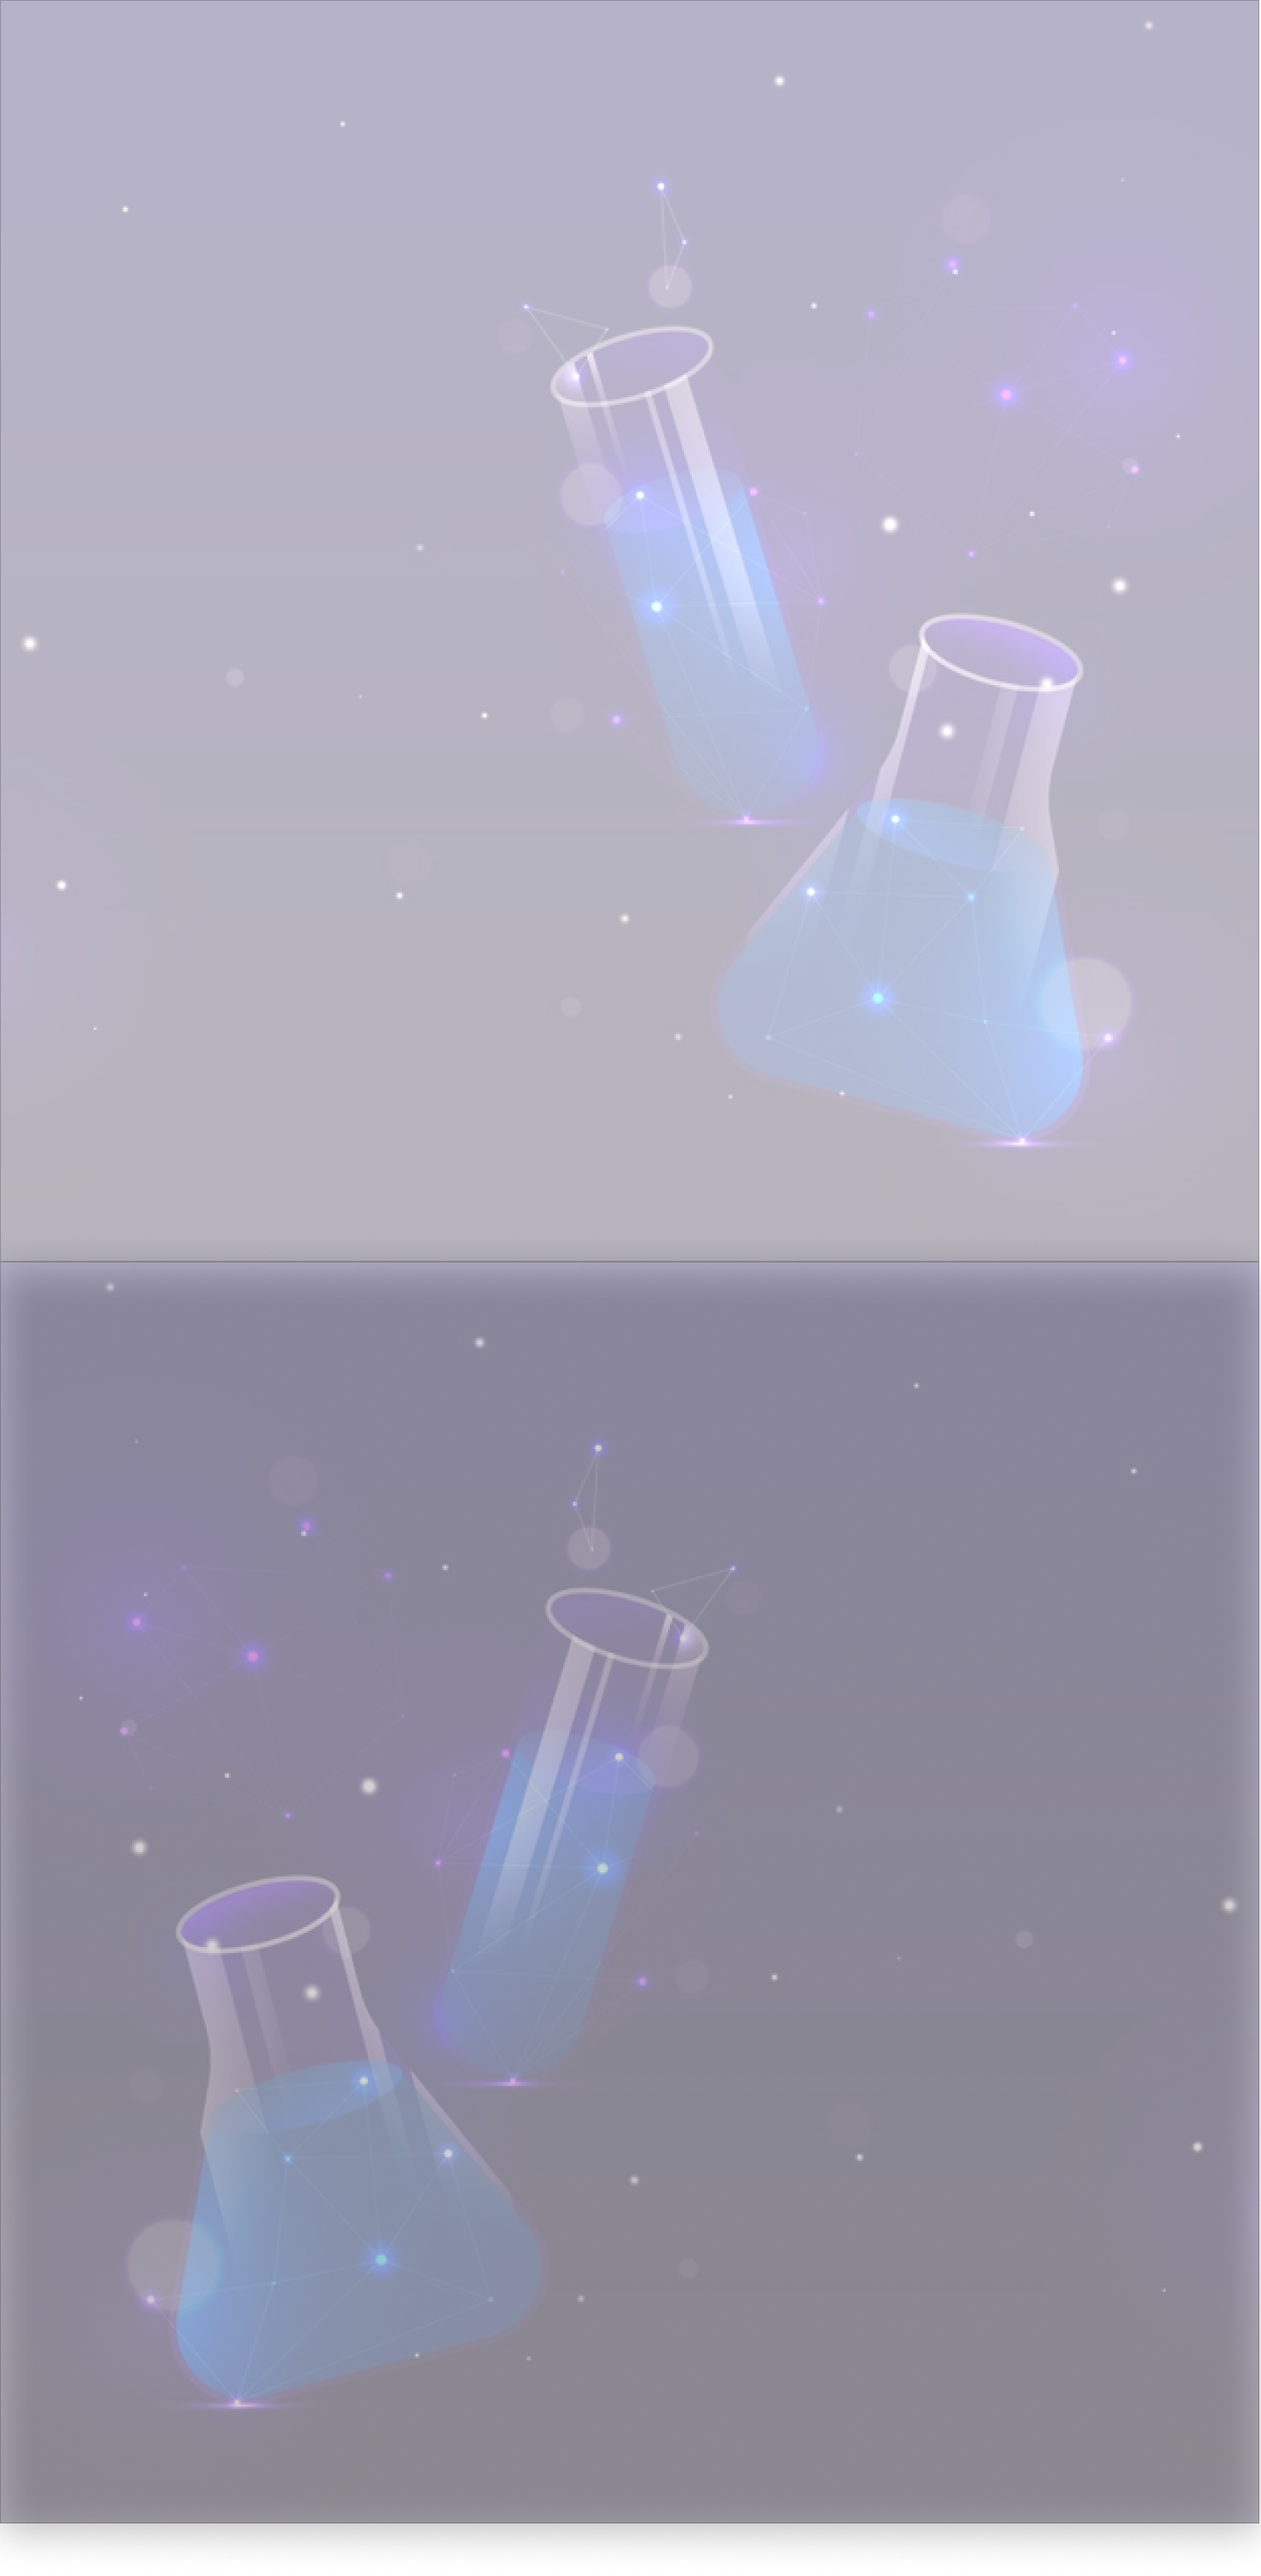
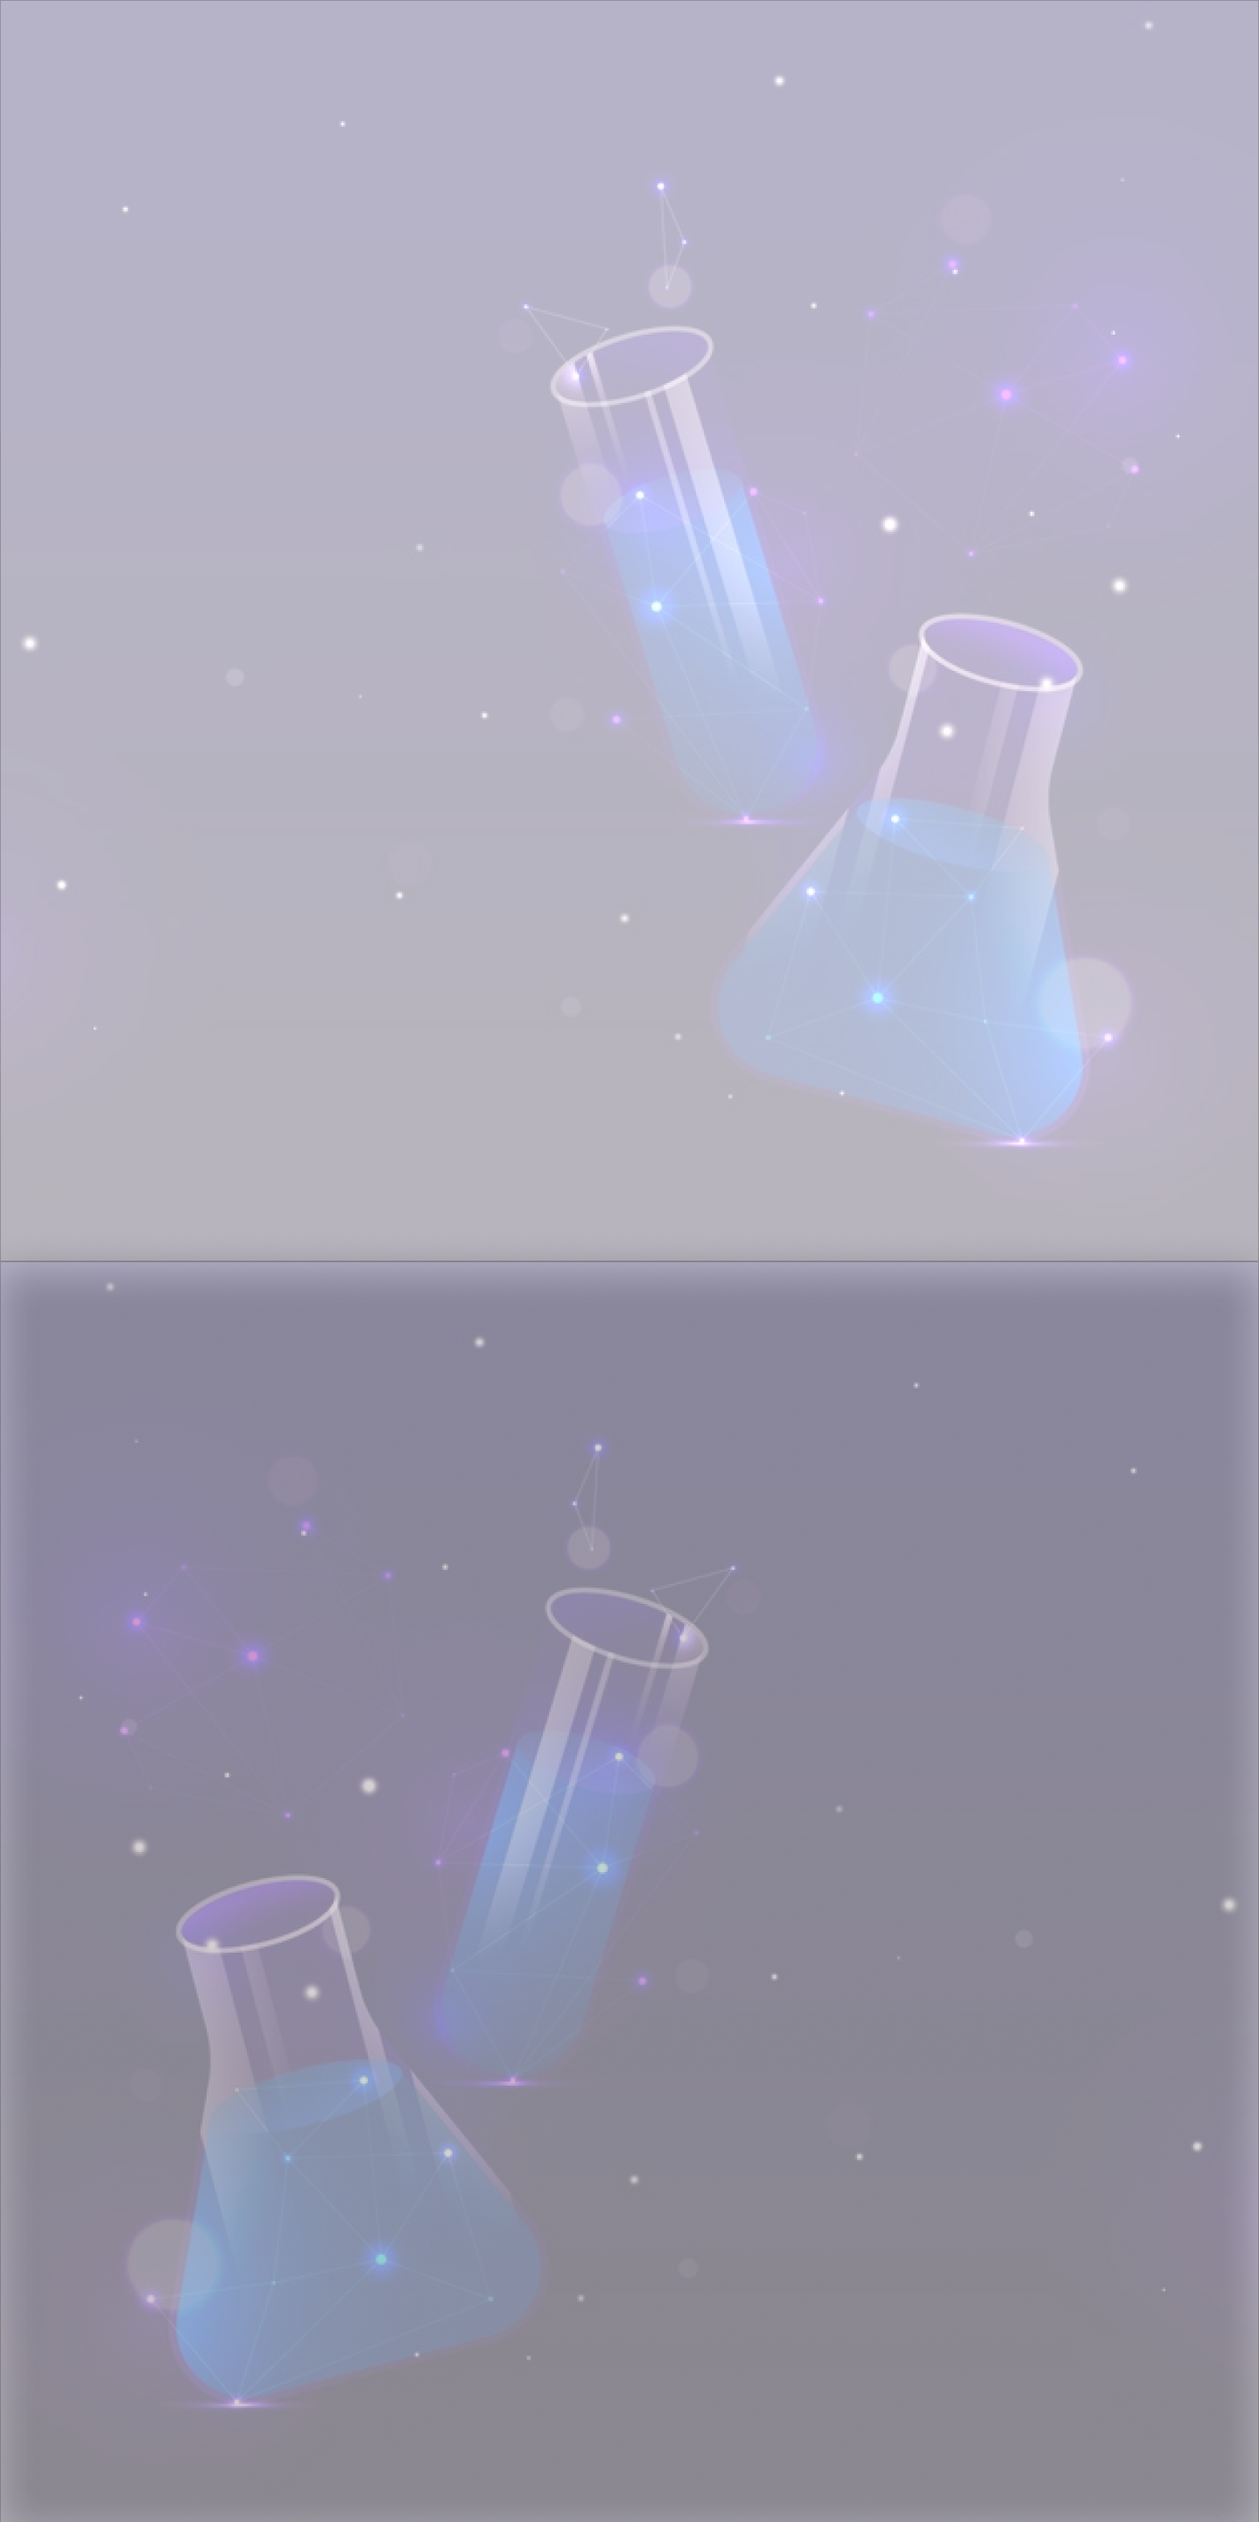
Final Edits.

diff --git a/index.html b/index.html
@@ -47,7 +47,7 @@
 
         <div id="screen-loader">
             <div>
-                <img src="images/Animate_Logo.gif"/>
+                <img src="images/LoadingAnimation.gif"/>
             </div>
         </div>
 
@@ -557,15 +557,15 @@
                     </div>
 
                     <!-- <div id="publications" class="card-deck mt-5 row mx-auto"> -->
-                    <div id="publications" class="card-deck row justify-content-center mt-5">
+                    <div id="publications" class="row justify-content-center mt-5">
 
                         <!-- <div class="card col-4 col-md-4 mx-auto"> -->
-                        <div class="card col-md-4" data-aos="fade-left">
+                        <div class="card col-md-3 mx-2 my-1" data-aos="fade-left">
                             
                             <div class="card-body">
 
                                 <i class="fa fa-envelope neon-text text-normal" aria-hidden="true"></i>
-                                <a href="" class="neon-text" target="blank">
+                                <a href="https://zenodo.org/record/3457643#.X1N50XkzZEY" class="neon-text" target="blank">
                                     <i class="fa fa-info-circle text-normal" aria-hidden="true"></i>
                                 </a>
                                 
@@ -579,12 +579,12 @@
                         </div>
                         
                         <!-- <div class="card col-4 col-md-4 mx-auto"> -->
-                        <div class="card col-md-4" data-aos="fade-up">
+                        <div class="card col-md-3 mx-2 my-1" data-aos="fade-up">
 
                             <div class="card-body">
 
                                 <i class="fa fa-envelope neon-text text-normal" aria-hidden="true"></i>
-                                <a href="" class="neon-text" target="blank">
+                                <a href="https://zenodo.org/record/3563213#.X1N54XkzZEY" class="neon-text" target="blank">
                                     <i class="fa fa-info-circle text-normal" aria-hidden="true"></i>
                                 </a>
                                 
@@ -598,12 +598,12 @@
                         </div>
 
                         <!-- <div class="card col-4 col-md-4 mx-auto"> -->
-                        <div class="card col-md-4" data-aos="fade-right">
+                        <div class="card col-md-3 mx-2 my-1" data-aos="fade-right">
 
                             <div class="card-body">
 
                                 <i class="fa fa-envelope neon-text text-normal" aria-hidden="true"></i>
-                                <a href="" class="neon-text" target="blank">
+                                <a href="https://zenodo.org/record/3690311#.X1N59XkzZEY" class="neon-text" target="blank">
                                     <i class="fa fa-info-circle text-normal" aria-hidden="true"></i>
                                 </a>
                                 
@@ -778,27 +778,27 @@
                         
                         <!-- FACEBOOK LINK. -->
                         <li>
-                            <a href="#" class="fa fa-facebook-square"></a>
+                            <a href="https://www.facebook.com/profile.php?id=100008330894845" target="blank" class="fa fa-facebook-square"></a>
                         </li>
 
                         <!-- INSTAGRAM LINK. -->
                         <li>
-                            <a href="#" class="fa fa-instagram "></a>
+                            <a href="https://www.instagram.com/nishchalbaniya/?hl=en&fbclid=IwAR0h5_oJ4UITQNN08MgekG2hrjJ7o_JWHFl1nCQlGK5AbY5aF1DICWx7zjw" class="fa fa-instagram"></a>
                         </li>
 
                         <!-- TWITTER LINK. -->
                         <li>
-                            <a href="#" class="fa fa-twitter "></a>
+                            <a href="https://twitter.com/baniya_nishchal?fbclid=IwAR0h5_oJ4UITQNN08MgekG2hrjJ7o_JWHFl1nCQlGK5AbY5aF1DICWx7zjw" class="fa fa-twitter" target="blank"></a>
                         </li>
 
                         <!-- LINKEDIN LINK. -->
                         <li>
-                            <a href="#" class="fa fa-linkedin "></a>
+                            <a href="https://www.linkedin.com/authwall?trk=gf&trkInfo=AQEwQ7la3KNRxAAAAXReHJ6AW70kuzu6XYTLirQdby16L7OAHt3dmaVrLcykegHXM-UFv8NMCUJWXFiQqIXP0lXzOcCK7qIxxd958DimhJ_80kvs3MG8Ra4lKtwCmhLj24NVQYc=&originalReferer=https://l.facebook.com/&sessionRedirect=https%3A%2F%2Fwww.linkedin.com%2Fin%2Fnishchal-baniya-12b8a813b%2F%3ForiginalSubdomain%3Dnp%26fbclid%3DIwAR0h5_oJ4UITQNN08MgekG2hrjJ7o_JWHFl1nCQlGK5AbY5aF1DICWx7zjw" class="fa fa-linkedin" target="blank"></a>
                         </li>
 
                         <!-- WE CHAT LINK. -->
                         <li>
-                            <a href="#" class="fa fa-weixin "></a>
+                            <a href="#" class="fa fa-weixin" target="blank"></a>
                         </li>
                         
                     </ul>
@@ -816,27 +816,27 @@
                         
                         <!-- FACEBOOK LINK. -->
                         <li>
-                            <a href="#" class="fa fa-facebook-square"></a>
+                            <a href="https://www.facebook.com/profile.php?id=100008330894845" target="blank" class="fa fa-facebook-square"></a>
                         </li>
 
                         <!-- INSTAGRAM LINK. -->
                         <li>
-                            <a href="#" class="fa fa-instagram"></a>
+                            <a href="https://www.instagram.com/nishchalbaniya/?hl=en&fbclid=IwAR0h5_oJ4UITQNN08MgekG2hrjJ7o_JWHFl1nCQlGK5AbY5aF1DICWx7zjw" target="blank" class="fa fa-instagram"></a>
                         </li>
 
                         <!-- TWITTER LINK. -->
                         <li>
-                            <a href="#" class="fa fa-twitter"></a>
+                            <a href="https://twitter.com/baniya_nishchal?fbclid=IwAR0h5_oJ4UITQNN08MgekG2hrjJ7o_JWHFl1nCQlGK5AbY5aF1DICWx7zjw" class="fa fa-twitter" target="blank"></a>
                         </li>
 
                         <!-- LINKEDIN LINK. -->
                         <li>
-                            <a href="#" class="fa fa-linkedin"></a>
+                            <a href="https://www.linkedin.com/authwall?trk=gf&trkInfo=AQEwQ7la3KNRxAAAAXReHJ6AW70kuzu6XYTLirQdby16L7OAHt3dmaVrLcykegHXM-UFv8NMCUJWXFiQqIXP0lXzOcCK7qIxxd958DimhJ_80kvs3MG8Ra4lKtwCmhLj24NVQYc=&originalReferer=https://l.facebook.com/&sessionRedirect=https%3A%2F%2Fwww.linkedin.com%2Fin%2Fnishchal-baniya-12b8a813b%2F%3ForiginalSubdomain%3Dnp%26fbclid%3DIwAR0h5_oJ4UITQNN08MgekG2hrjJ7o_JWHFl1nCQlGK5AbY5aF1DICWx7zjw" class="fa fa-linkedin" target="blank"></a>
                         </li>
 
                         <!-- WE CHAT LINK. -->
                         <li>
-                            <a href="#" class="fa fa-weixin"></a>
+                            <a href="#" class="fa fa-weixin" target="blank"></a>
                         </li>
                         
                     </ul>
@@ -869,22 +869,22 @@
                     
                     <!-- DESIGN INSPIRATION. -->
                     <p class="text-tiny gray-text-1">
-                        Design Inspired by 
-                        <a href="https://brittanychiang.com/" class="neon-text text-tiny">
-                            Brittany Chiang.
+                        Built by 
+                        <a href="https://brittanychiang.com/" class="neon-text text-tiny" target="blank">
+                            Lv.1 Alchemy.
                         </a>
                     </p>
                     
                     <!-- DEVELOPER. -->
                     <p class="text-tiny gray-text-1">
-                        Built by PAJY
-                    </p>
-                    
-                    <!-- COPYRIGHT -->
-                    <p class="text-tiny gray-text-1">
-                        Copyright @ 
-                        <a href="#" class="neon-text text-tiny">
-                            Nischal Baniya.
+                        Design Inspired by 
+                        <a href="https://brittanychiang.com/" class="neon-text text-tiny" target="blank">
+                            Brittany Chiang
+                        </a>
+                        &
+                        Background Image by
+                        <a href="https://www.freepik.com/vectors/background" class="neon-text text-tiny" target="blank">
+                            Freepik.
                         </a>
                     </p>
                 

diff --git a/scripts/main_script.js b/scripts/main_script.js
@@ -1,18 +1,40 @@
 function switch_tabs(element_reference, class_name){
     
-    // Firstly removing tab-open class from all the elements of the related group(specified by the other group class name), and adding tab-close class in them. 
-    $('.'+class_name).removeClass('tab-open');
-    $('.'+class_name).addClass('tab-close');
-    
-    // Removing tab-close class from the clicked element(TAB HEADING), and adding tab-open class in it.
-    $(element_reference).removeClass('tab-close');
-    $(element_reference).addClass('tab-open');
+    const active_element = $('.tab-open');
+    const active_element_id = getIDFromHref(active_element[0].href);
 
-    // Getting the ID of the TAB CONTENT, and removing tab-close class from the TAB CONTENT, and adding tab-open class in it.
+    element_reference.classList.remove('tab-close');
+    element_reference.classList.add('tab-open');
+
     var ID = getIDFromHref(element_reference.href);
     $('#'+ID).removeClass('tab-close');
     $('#'+ID).addClass('tab-open');
-    // document.getElementById(ID).style.transition = 'all 2s';
+
+    active_element[0].classList.remove('tab-open');
+    active_element[0].classList.add('tab-close');
+
+    // const active_element_id = getIDFromHref(active_element[0].href);
+    $('#'+active_element_id).removeClass('tab-open');
+    $('#'+active_element_id).addClass('tab-close');
+    
+
+    // alert(getIDFromHref(active_element[0].href))
+
+    // active_element.classList.remove('tab-open');
+
+    // // Firstly removing tab-open class from all the elements of the related group(specified by the other group class name), and adding tab-close class in them. 
+    // $('.'+class_name).removeClass('tab-open');
+    // $('.'+class_name).addClass('tab-close');
+    
+    // // Removing tab-close class from the clicked element(TAB HEADING), and adding tab-open class in it.
+    // $(element_reference).removeClass('tab-close');
+    // $(element_reference).addClass('tab-open');
+
+    // // Getting the ID of the TAB CONTENT, and removing tab-close class from the TAB CONTENT, and adding tab-open class in it.
+    // var ID = getIDFromHref(element_reference.href);
+    // $('#'+ID).removeClass('tab-close');
+    // $('#'+ID).addClass('tab-open');
+    // // document.getElementById(ID).style.transition = 'all 2s';
 
 }
 
@@ -78,6 +100,6 @@ $(window).on('load', function(){
     $('#screen-loader').fadeOut('slow');
     // window.setTimeout(function(){
     //     $('#screen-loader').fadeOut('slow');
-    // }, 500);
+    // }, 1500);
     document.body.style.overflowY = 'scroll';
 });

diff --git a/styles/main_style.css b/styles/main_style.css
@@ -14,8 +14,8 @@
 /* SETTING THE STYLE FOR BODY SECTION. */
 body{
     background: #0A192F;
-    min-width: 320px;
-    height: auto;
+    /* min-width: 320px; */
+    /* height: auto; */
     overflow-x: hidden;
     overflow-y: hidden;
 }
@@ -28,7 +28,7 @@ body{
     position: fixed;
     top: 0;
     left: 0;
-    background: #020C1B;
+    background: #0A192F;
     z-index: 2;
 }
 
@@ -189,7 +189,7 @@ body{
     /* filter: sepia(100%); */
     cursor: pointer;
     border-radius: 5px;
-    box-shadow: 10px 10px gray;
+    box-shadow: 10px 10px rgba(90, 231, 200, .4);
 }
 .filtered-image:hover{
     filter: none;
@@ -250,7 +250,7 @@ body{
 /* CONTENTS SECTION STYLES STARTS. */
 
 .contents-class{
-    background: url('../images/background.png');    /* Importing background image. */
+    background: url('../images/Frame_4.png');    /* Importing background image. */
     /* height: 100%; Actual height of the image. */
     /* background-position: center; Center the image */
     background-repeat: repeat-y space; /* Repeat image in y direction. */
